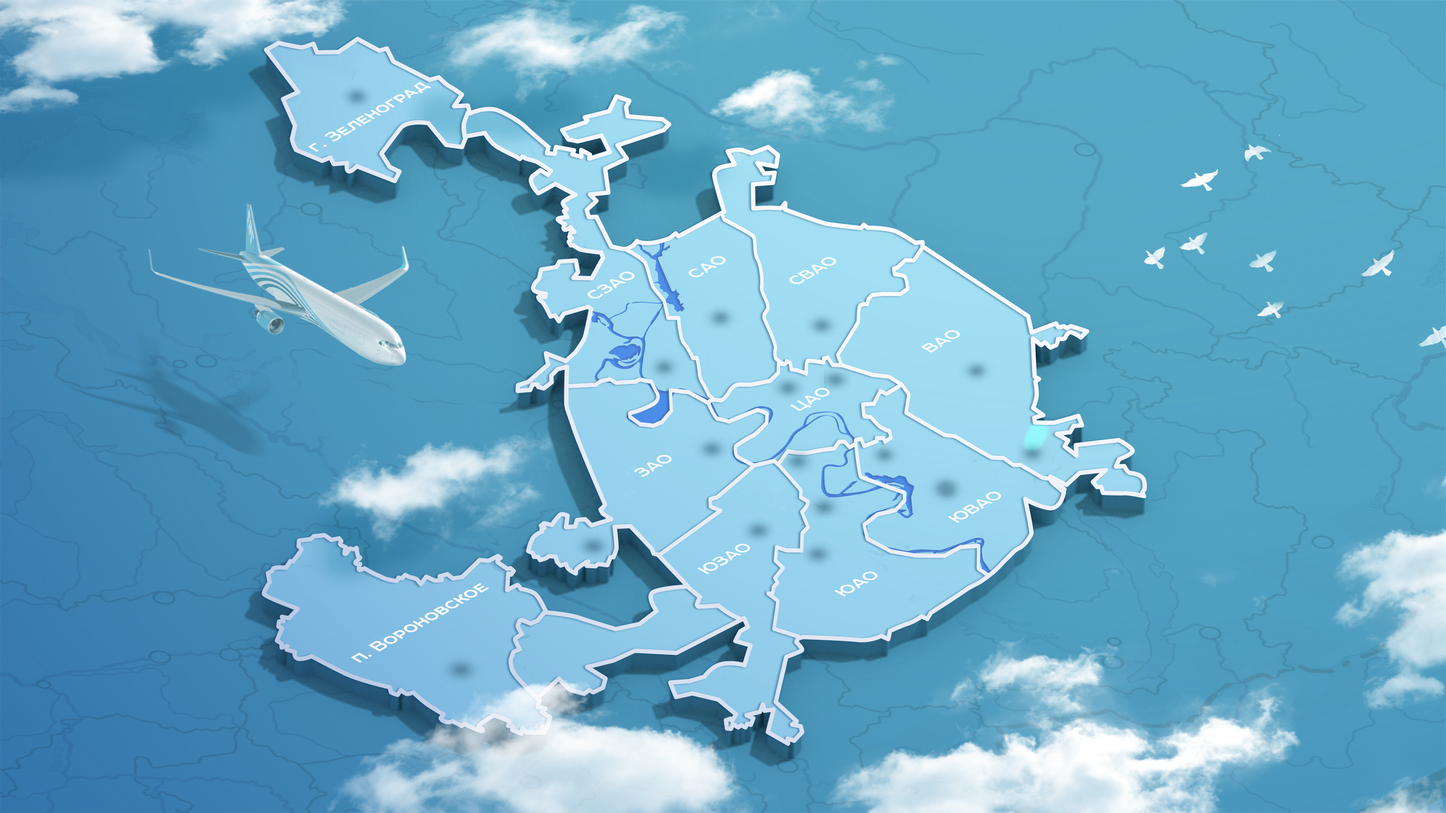
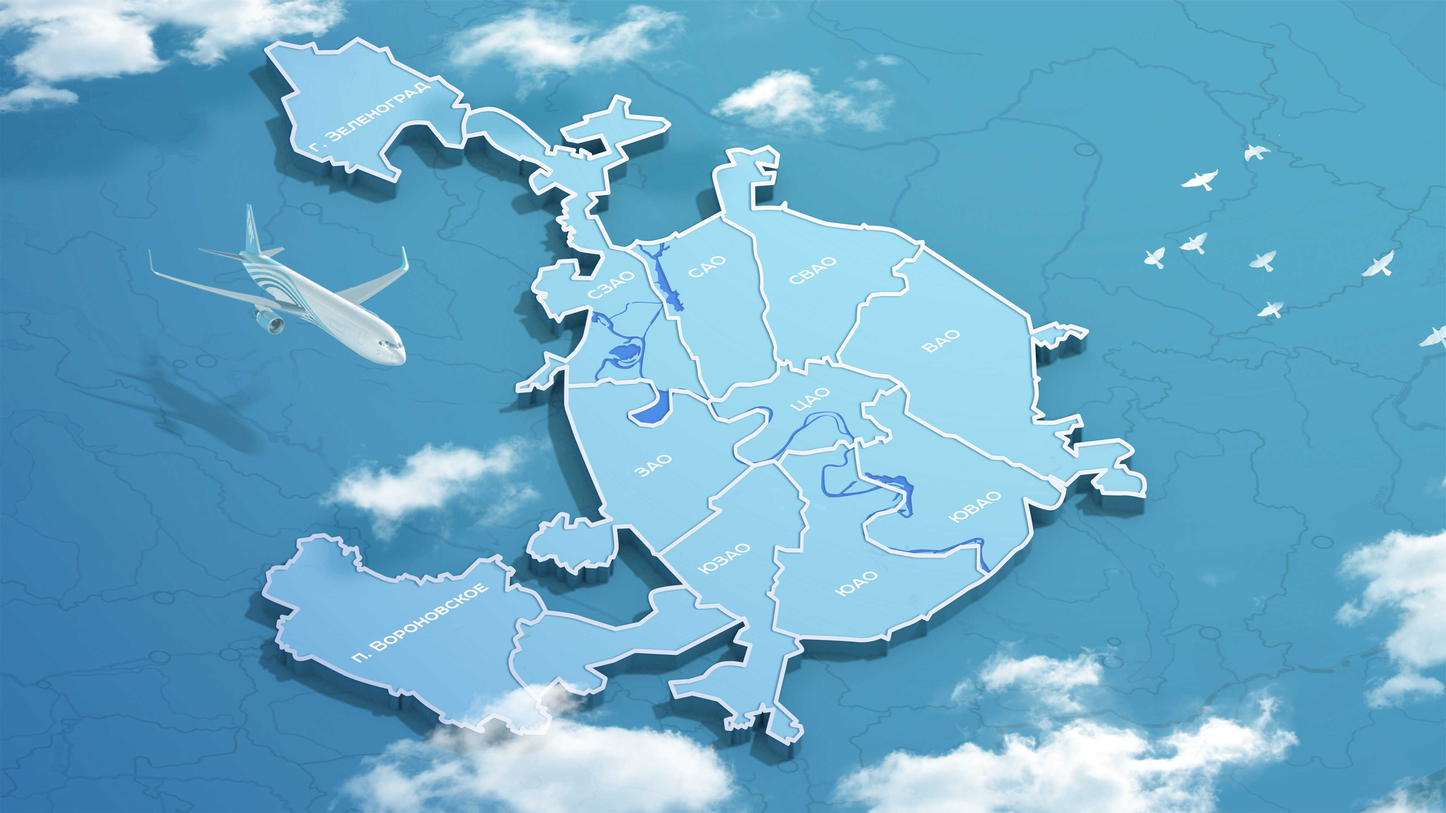
map

diff --git a/tpl/css/style.css b/tpl/css/style.css
@@ -67,7 +67,16 @@ h3{
     position: absolute;
 }
 
-
+.baloon-off.svg-map:after {
+    content: "_";
+    font-size: 30px;
+    color: transparent;
+    text-shadow: 18px 18px 8px black;
+    position: absolute;
+    top: -14px;
+    left: -14px;
+    z-index: 1;
+}
 
 
 .baloon-info{
@@ -3562,15 +3571,11 @@ h2 > a:hover, .vacancy-content__item > a:hover, .activity__ancor:hover, .news-bl
 
 
     #map{
-        transform: matrix(1.21, 0, 0, 1.21, -431.2, -72.0941);
-    }
+     transform: matrix(1.21, 0, 0, 1.21, -169.2, 51.9059);
+        }
 
     #branches-card #map{
         transform: none;
-    }
-
-    .map-container{
-        height: 400px;
     }
 
     #adressess-result .stacktable-table, #price-list.big-table .stacktable-table{
@@ -5020,8 +5025,8 @@ h2 > a:hover, .vacancy-content__item > a:hover, .activity__ancor:hover, .news-bl
 }
 
 .baloon-group-5 {
-    right: 451px;
-    bottom: 332px;
+    right: 486px;
+    bottom: 430px;
 }
 
 .baloon-group-6{
@@ -5095,7 +5100,9 @@ h2 > a:hover, .vacancy-content__item > a:hover, .activity__ancor:hover, .news-bl
 .baloon-group:hover .baloon-on, .baloon-group:hover .baloon-info {
     display: block;
 }
-
+.baloon-group-4.baloon-group .baloon-info{
+    bottom: -65px;
+}
 .map-container {
     overflow: hidden;
 }
